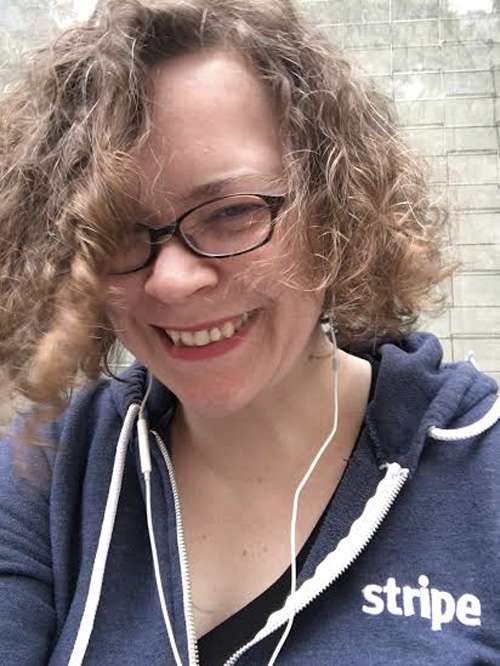
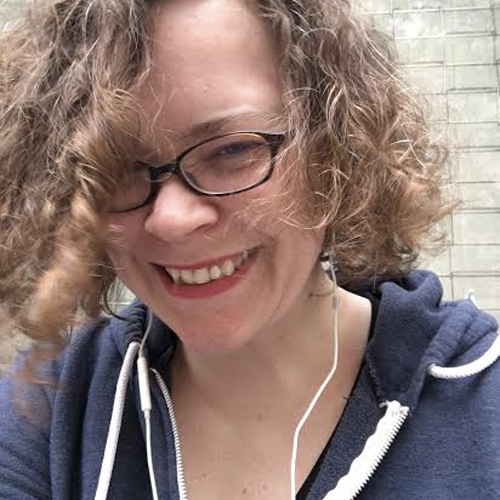
Add episode 104 (#341)
* Fix crop on charity’s headshot

* Small tweak to Jill’s old profile

* Add episode 104

* Fix hot takes thingy image

* Tweak hot takes home page image

diff --git a/content/episode/hot-takes.md b/content/episode/hot-takes.md
@@ -1,0 +1,52 @@
++++
+Description = "An exploration of everything wrong with DevOps today. Pushing the limit of the [explicit] tag."
+aliases = ["/104"]
+author = "Matt"
+categories = []
+date = "2018-02-26T08:55:48-05:00"
+episode = "104"
+explicit = "yes"
+friendly = "hot-takes"
+guests = ["cmajors2","jjubinski3","esigler"]
+images = ["https://www.arresteddevops.com/img/social/fb/hot-takes.png"]
+news_keywords = []
+podcast = "https://media.blubrry.com/arresteddevops/content.blubrry.com/arresteddevops/arrested-devops-podcast-episode104.mp3"
+podcast_duration = "52:04"
+sponsors = ["chef", "datadog"]
+tags = []
+title = "Hot Takes with Charity Majors, Jill Jubinski, and Eric Sigler"
+
++++
+
+Definition of a hot take - “a piece of commentary, typically produced quickly in response to a recent event, whose primary purpose is to attract attention.”
+
+Charity Majors (Honeycomb), Jill Jubinski (Fastly), and Eric Sigler (PagerDuty) sit down with Matt to have some fun with a few great DevOps "hot takes" and talk about what everyone is doing wrong.
+
+
+## Referenced in this episode:
+
+- [Veteran of the Process Wars](https://goatcan.do/2014/09/13/veteran-of-the-process-wars/) by Michael Ducy
+- [Crucial Conversations](https://www.vitalsmarts.com/crucial-conversations-training/)
+- Charity's [tweetstorm about on-call](https://twitter.com/mipsytipsy/status/962151928741285888)
+- [On-Call Doesn't Have To Suck](https://medium.com/@copyconstruct/on-call-b0bd8c5ea4e0) by Cindy Sridharan
+- [The Five Love Languages of DevOps](https://medium.com/@mattstratton/the-five-love-languages-of-devops-77606263c910)
+- [DevOpsDays Chicago 2016 - DevOps'ing Recruitment by Jill Jubinski](https://www.youtube.com/watch?v=chu4bPxUW6c)
+- [Containers Won't Fix Your Broken Culture](https://queue.acm.org/detail.cfm?id=3185224) by Bridget Kromhout
+- [Matt's LinkedIn post about DevOps Engineers](https://www.linkedin.com/feed/update/urn:li:activity:6364933552445882368/)
+
+
+## Community & Event Stuff
+
+If you have an upcoming conference you would like to see promoted on ADO, you can fill out the handy form at [arresteddevops.com/conf](https://arresteddevops.com/conf)
+
+### Upcoming conferences
+
+### Open CFPs
+
+- [lots of DevOpsDays](https://devopsdays.org/speaking)
+- [GopherCon](https://www.gophercon.com/): [CFP](https://www.papercall.io/gophercon2018) closes March 15; Conference Aug 27-30.
+
+### Discount codes
+- ADO2018 for 20% off lots of devopsdays, 10% off ChefConf, 5% off GopherCon.
+
+
